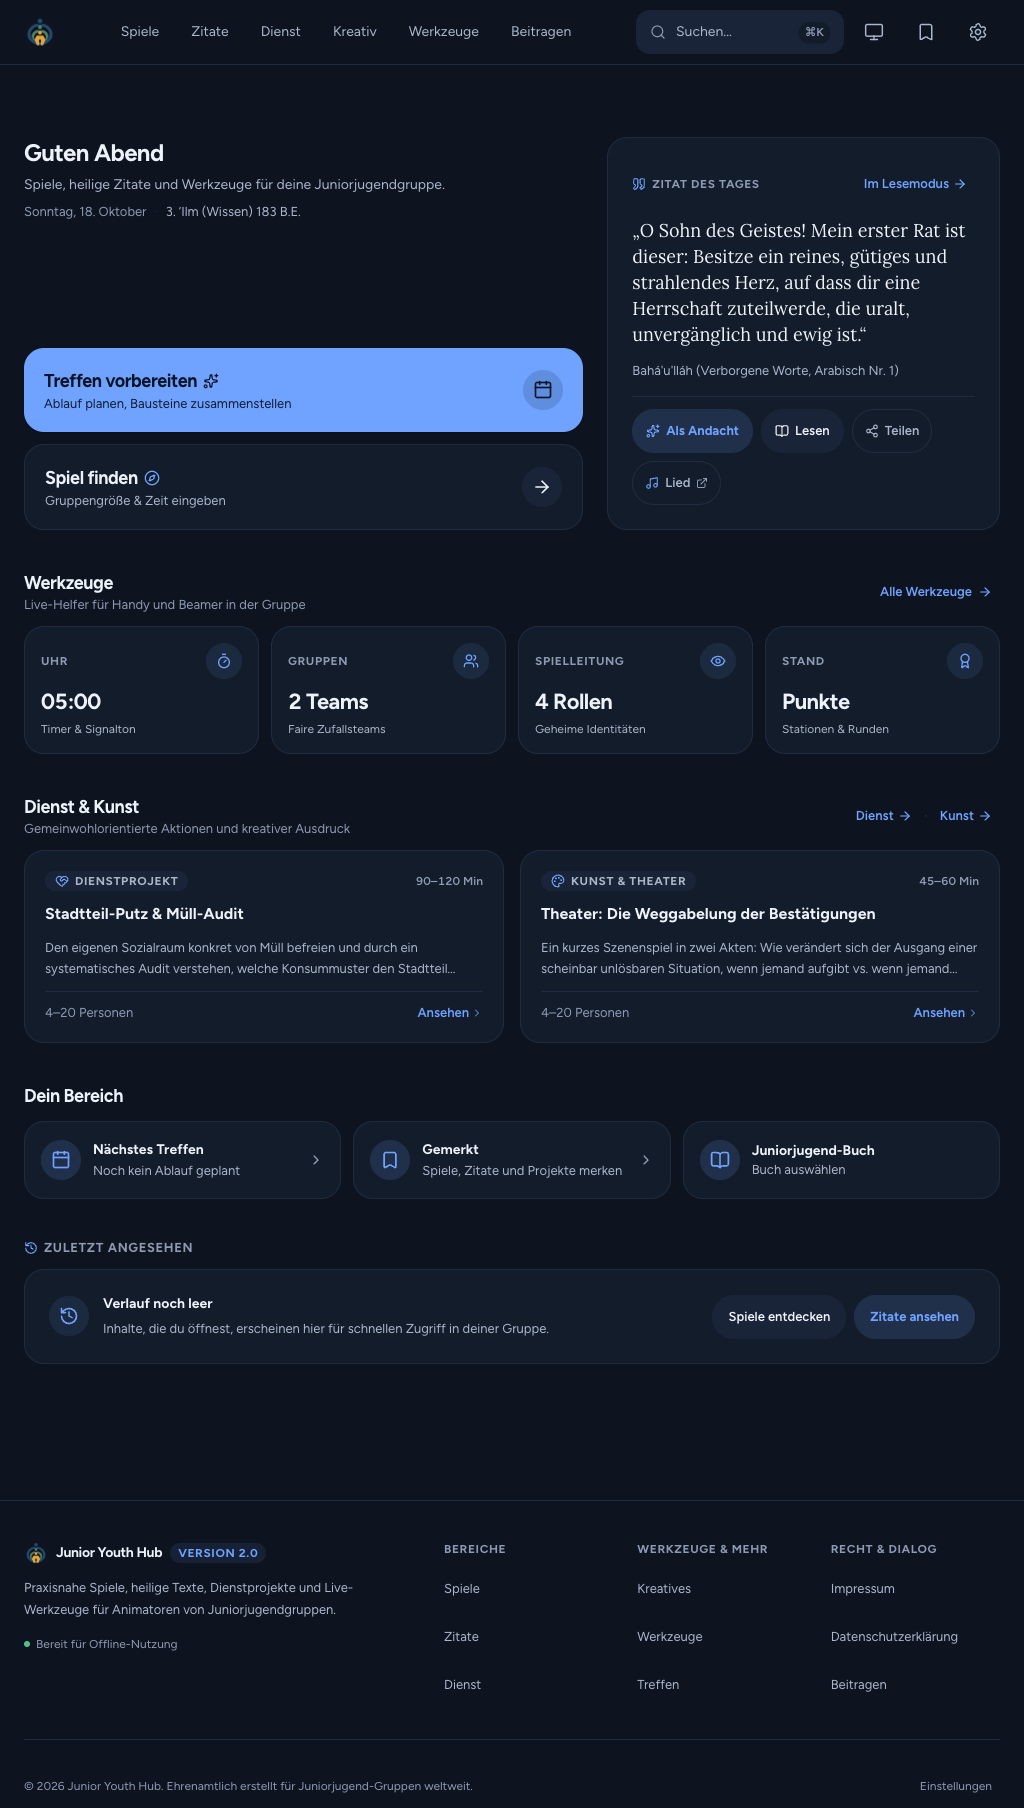
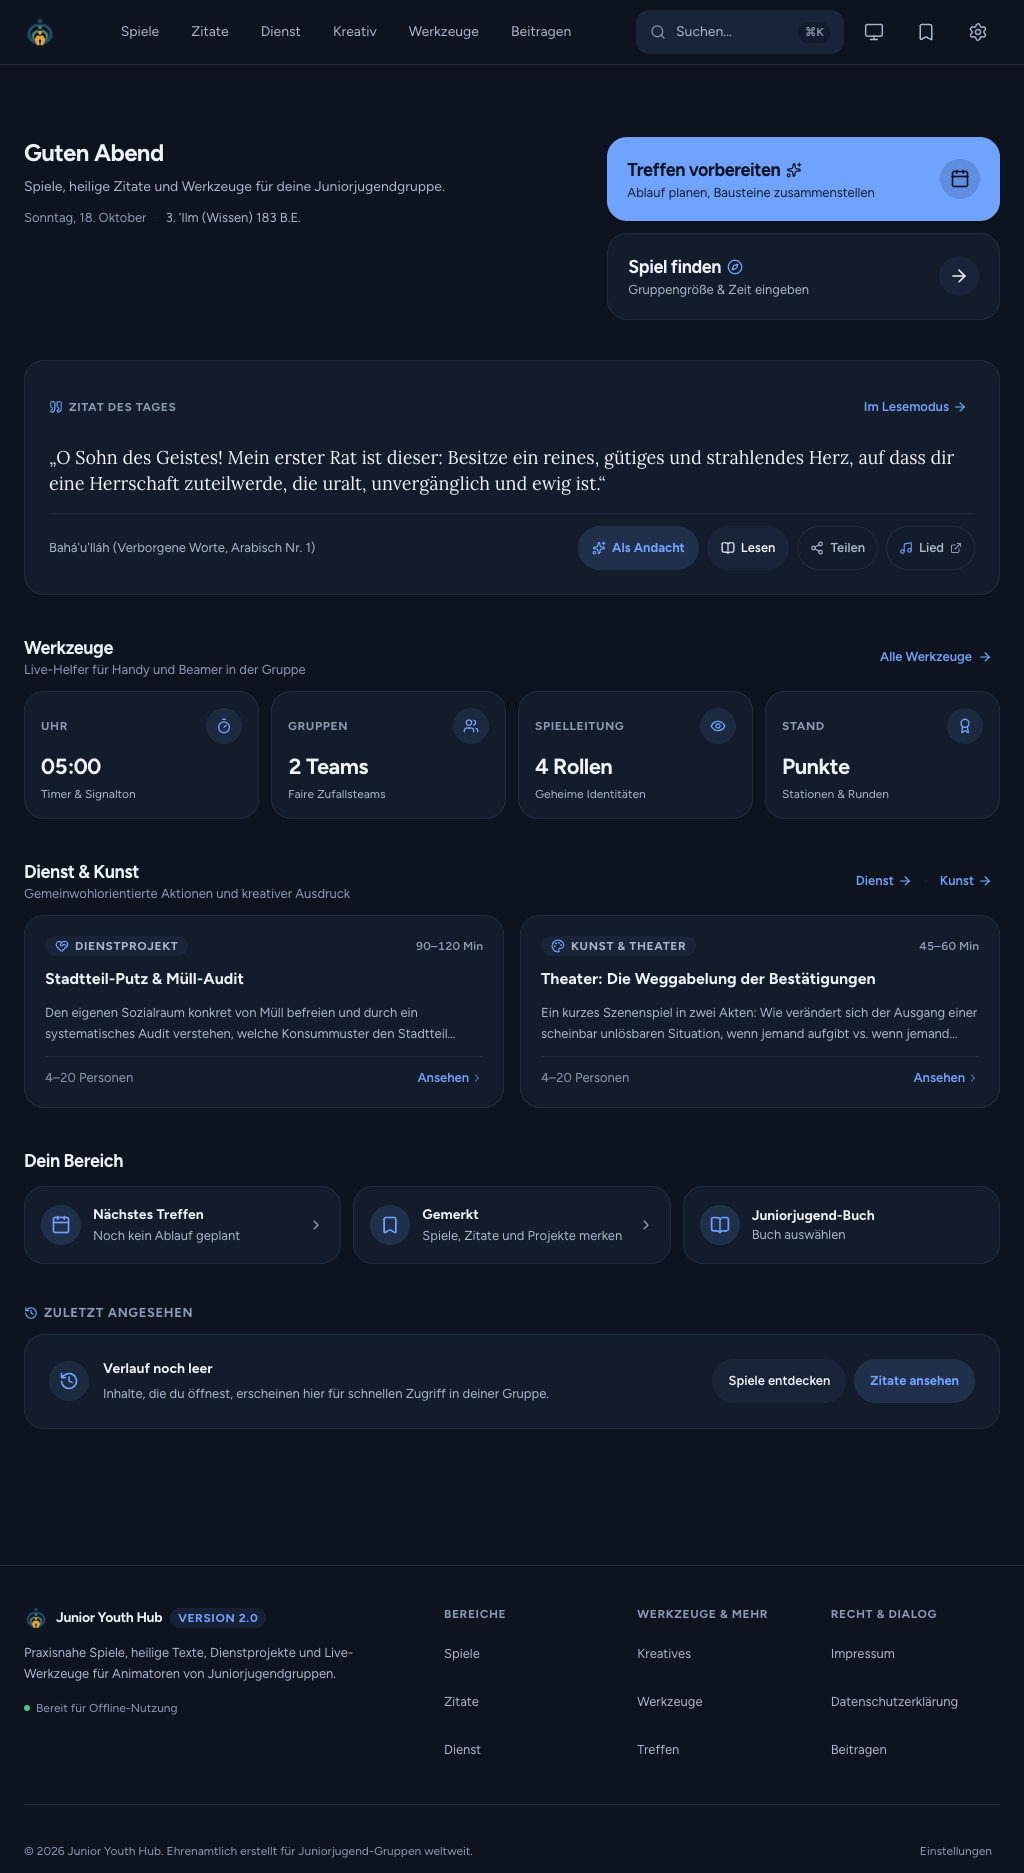
feat(home): give quote full horizontal width and refine hero grid layout

diff --git a/src/components/HomeView.tsx b/src/components/HomeView.tsx
@@ -163,7 +163,6 @@ export const HomeView: React.FC<HomeViewProps> = ({ language, favorites }) => {
   const quoteIndex = getDayOfYear() % QUOTES_DATA.length;
   const quote = QUOTES_DATA[quoteIndex];
   const quoteSong = quote ? getQuoteSong(quote.id, language) : undefined;
-  const [isQuoteExpanded, setIsQuoteExpanded] = useState(false);
 
   // Active plan stats
   const slotCount = activePlan?.slots?.length ?? 0;
@@ -257,11 +256,7 @@ export const HomeView: React.FC<HomeViewProps> = ({ language, favorites }) => {
     }
   };
 
-  const rawQuoteText = quote ? (language === 'de' ? quote.textDe : quote.textEn) : '';
-  const isLongQuote = rawQuoteText.length > 220;
-  const displayedQuote = isLongQuote && !isQuoteExpanded
-    ? `${rawQuoteText.slice(0, 210)}…`
-    : rawQuoteText;
+  const quoteText = quote ? (language === 'de' ? quote.textDe : quote.textEn) : '';
 
   return (
     <div className="max-w-[1200px] w-full mx-auto pb-10 space-y-8 sm:space-y-10">
@@ -302,45 +297,45 @@ export const HomeView: React.FC<HomeViewProps> = ({ language, favorites }) => {
         </aside>
       )}
 
-      {/* 2. Top-Bereich: Auf Desktop (lg: >= 1024px) 2 Spalten (Hero links, Zitat des Tages rechts) */}
-      <div className="grid grid-cols-1 lg:grid-cols-12 gap-5 sm:gap-6 items-stretch">
-        {/* Linke Spalte: Begrüßung + 2 Haupt-CTAs (lg:col-span-7) */}
-        <div className="lg:col-span-7 flex flex-col justify-between space-y-4">
-          <header className="space-y-1.5">
-            {isPlanToday && (
-              <span className="inline-flex items-center gap-1.5 px-3 py-0.5 rounded-full text-2xs font-extrabold uppercase tracking-wider bg-accent text-accent-contrast">
-                <Clock className="w-3 h-3" />
-                {L('Heute anstehend', 'Scheduled for today')}
-              </span>
-            )}
-            <h1 className="text-2xl sm:text-3xl font-extrabold tracking-tight text-text">
-              {slotCount > 0
-                ? `${fullGreeting} · ${L('Weiter mit deinem Treffen', 'Continue your gathering')}`
-                : fullGreeting}
-            </h1>
-            <p className="text-xs sm:text-sm text-text-secondary leading-relaxed">
-              {slotCount > 0
-                ? L(
-                    `Dein Entwurf für „${activePlan?.name}“ (${totalMinutes} Min., ${slotCount} Bausteine) wartet auf dich.`,
-                    `Your draft for "${activePlan?.name}" (${totalMinutes} min., ${slotCount} blocks) is ready.`
-                  )
-                : L(
-                    'Spiele, heilige Zitate und Werkzeuge für deine Juniorjugendgruppe.',
-                    'Games, sacred scripture, and tools for your junior youth group.'
-                  )}
-            </p>
-            {/* Dezente Datumszeile (Gregorianisch & Badí') */}
-            <p className="text-2xs sm:text-xs text-text-tertiary flex flex-wrap items-center gap-x-2 pt-0.5">
-              <span>{gregorianFormatted}</span>
-              <span className="text-border" aria-hidden="true">·</span>
-              <span className="text-text-secondary font-medium">
-                {language === 'de' ? badiDate.formattedDe : badiDate.formattedEn}
-              </span>
-            </p>
-          </header>
+      {/* 2. Hero-Bereich: Begrüßung links, die zwei gestapelten CTAs rechts */}
+      <div className="grid grid-cols-1 lg:grid-cols-12 gap-5 sm:gap-6 items-start">
+        {/* Linke Spalte: Begrüßung & Datum (lg:col-span-7) */}
+        <header className="lg:col-span-7 space-y-2">
+          {isPlanToday && (
+            <span className="inline-flex items-center gap-1.5 px-3 py-0.5 rounded-full text-2xs font-extrabold uppercase tracking-wider bg-accent text-accent-contrast">
+              <Clock className="w-3 h-3" />
+              {L('Heute anstehend', 'Scheduled for today')}
+            </span>
+          )}
+          <h1 className="text-2xl sm:text-3xl font-extrabold tracking-tight text-text">
+            {slotCount > 0
+              ? `${fullGreeting} · ${L('Weiter mit deinem Treffen', 'Continue your gathering')}`
+              : fullGreeting}
+          </h1>
+          <p className="text-xs sm:text-sm text-text-secondary leading-relaxed max-w-xl">
+            {slotCount > 0
+              ? L(
+                  `Dein Entwurf für „${activePlan?.name}“ (${totalMinutes} Min., ${slotCount} Bausteine) wartet auf dich.`,
+                  `Your draft for "${activePlan?.name}" (${totalMinutes} min., ${slotCount} blocks) is ready.`
+                )
+              : L(
+                  'Spiele, heilige Zitate und Werkzeuge für deine Juniorjugendgruppe.',
+                  'Games, sacred scripture, and tools for your junior youth group.'
+                )}
+          </p>
+          {/* Dezente Datumszeile (Gregorianisch & Badí') */}
+          <p className="text-2xs sm:text-xs text-text-tertiary flex flex-wrap items-center gap-x-2 pt-1">
+            <span>{gregorianFormatted}</span>
+            <span className="text-border" aria-hidden="true">·</span>
+            <span className="text-text-secondary font-medium">
+              {language === 'de' ? badiDate.formattedDe : badiDate.formattedEn}
+            </span>
+          </p>
+        </header>
 
-          {/* Die zwei großen CTA-Kacheln übereinander */}
-          <nav aria-label={L('Haupteinstiege', 'Main navigation')} className="flex flex-col gap-3 pt-1">
+        {/* Rechte Spalte: Die zwei großen CTA-Kacheln übereinander (lg:col-span-5) */}
+        <div className="lg:col-span-5 space-y-3">
+          <nav aria-label={L('Haupteinstiege', 'Main navigation')} className="flex flex-col gap-3">
             {/* Hauptaktion: Treffen vorbereiten */}
             <Link
               to="/treffen"
@@ -385,7 +380,7 @@ export const HomeView: React.FC<HomeViewProps> = ({ language, favorites }) => {
 
           {/* Spielfinder kompakt (nur bei Klick auf "Spiel finden") */}
           {showCompactFinder && (
-            <section aria-label={L('Kompakter Spielfinder', 'Compact game finder')} className="animate-in fade-in duration-200 pt-1">
+            <section aria-label={L('Kompakter Spielfinder', 'Compact game finder')} className="animate-in fade-in duration-200">
               <Panel className="space-y-4 border border-accent/30 bg-surface rounded-card p-4 sm:p-5 shadow-xs">
                 <div className="flex items-center justify-between">
                   <h2 className="text-sm font-bold text-text flex items-center gap-2">
@@ -441,94 +436,82 @@ export const HomeView: React.FC<HomeViewProps> = ({ language, favorites }) => {
             </section>
           )}
         </div>
-
-        {/* Rechte Spalte: Zitat des Tages (ruhig, dezent, ohne auffälligen Rahmen) */}
-        {quote && (
-          <div className="lg:col-span-5 flex flex-col justify-start">
-            <section
-              aria-label={L('Zitat des Tages', 'Quote of the day')}
-              className="p-5 sm:p-6 rounded-card bg-surface border border-line shadow-xs flex flex-col justify-between space-y-4"
-            >
-              <div className="space-y-3">
-                <div className="flex items-center justify-between">
-                  <span className="text-2xs font-bold uppercase tracking-wider text-text-tertiary flex items-center gap-1.5">
-                    <QuoteIcon className="w-3.5 h-3.5 text-accent" />
-                    <span>{L('Zitat des Tages', 'Quote of the day')}</span>
-                  </span>
-                  <Link
-                    to={`/quotes/${quote.id}`}
-                    className="inline-flex items-center gap-1 text-xs font-semibold text-accent hover:underline whitespace-nowrap min-h-[44px] px-2 py-1.5 rounded-control focus-visible:ring-2 focus-visible:ring-accent"
-                  >
-                    <span>{L('Im Lesemodus', 'Reading mode')}</span>
-                    <ArrowRight className="w-3.5 h-3.5 shrink-0" aria-hidden="true" />
-                  </Link>
-                </div>
-
-                <blockquote className="font-serif text-base sm:text-lg text-text leading-relaxed">
-                  {language === 'de' ? `„${stripQuotes(displayedQuote)}“` : `“${stripQuotes(displayedQuote)}”`}
-                </blockquote>
-
-                {isLongQuote && (
-                  <button
-                    type="button"
-                    onClick={() => setIsQuoteExpanded(!isQuoteExpanded)}
-                    className="text-xs font-semibold text-accent hover:underline cursor-pointer min-h-[44px] inline-flex items-center focus-visible:ring-2 focus-visible:ring-accent rounded-control"
-                  >
-                    {isQuoteExpanded ? L('Weniger anzeigen', 'Show less') : L('Weiterlesen', 'Read more')}
-                  </button>
-                )}
-
-                <p className="text-xs text-text-secondary pt-0.5">
-                  {quote.source[language]}
-                </p>
-              </div>
-
-              {/* Aktionen als gleichmäßige Button-Gruppe (Mobil 2x2, Desktop Flex-Reihe) */}
-              <div className="pt-3 border-t border-line grid grid-cols-2 sm:flex sm:flex-wrap sm:items-center gap-2">
-                <button
-                  type="button"
-                  onClick={handleUseQuoteAsDevotional}
-                  className="px-3.5 py-2.5 rounded-full bg-accent/15 hover:bg-accent/25 text-accent text-xs font-bold transition-colors cursor-pointer min-h-[44px] flex items-center justify-center gap-1.5 focus-visible:ring-2 focus-visible:ring-accent"
-                >
-                  <Sparkles className="w-3.5 h-3.5 shrink-0" />
-                  <span className="whitespace-nowrap">{t.quoteAsDevotional}</span>
-                </button>
-                <Link
-                  to={`/quotes/${quote.id}`}
-                  className="px-3.5 py-2.5 rounded-full bg-surface-2 hover:bg-surface-3 text-text text-xs font-semibold transition-colors cursor-pointer min-h-[44px] flex items-center justify-center gap-1.5 focus-visible:ring-2 focus-visible:ring-accent"
-                >
-                  <BookOpen className="w-3.5 h-3.5 shrink-0" />
-                  <span>{L('Lesen', 'Read')}</span>
-                </Link>
-                <button
-                  type="button"
-                  onClick={handleShareQuote}
-                  className="px-3 py-2.5 rounded-full border border-line hover:bg-surface-2 text-text-secondary hover:text-text text-xs font-semibold transition-colors min-h-[44px] flex items-center justify-center gap-1.5 cursor-pointer focus-visible:ring-2 focus-visible:ring-accent"
-                  title={t.quoteShare}
-                  aria-label={t.quoteShare}
-                >
-                  <Share2 className="w-3.5 h-3.5 text-text-secondary shrink-0" />
-                  <span>{t.quoteShare}</span>
-                </button>
-                {quoteSong && (
-                  <a
-                    href={quoteSong.url}
-                    target="_blank"
-                    rel="noopener noreferrer"
-                    className="px-3 py-2.5 rounded-full border border-line hover:bg-surface-2 text-text-secondary hover:text-text text-xs font-semibold transition-colors min-h-[44px] flex items-center justify-center gap-1.5 focus-visible:ring-2 focus-visible:ring-accent"
-                    title={language === 'de' ? `Lied „${quoteSong.title}“ auf bahaisongs.com anhören` : `Listen to song "${quoteSong.title}" on bahaisongs.com`}
-                    aria-label={t.quoteSongAriaLabel}
-                  >
-                    <Music className="w-3.5 h-3.5 text-accent shrink-0" />
-                    <span>{t.quoteSongLink}</span>
-                    <ExternalLink className="w-3 h-3 text-text-tertiary shrink-0" />
-                  </a>
-                )}
-              </div>
-            </section>
-          </div>
-        )}
       </div>
+
+      {/* 3. Zitat des Tages: Breiter horizontaler Raum, damit der Text in 1-2 Zeilen fließt */}
+      {quote && (
+        <section
+          aria-label={L('Zitat des Tages', 'Quote of the day')}
+          className="p-5 sm:p-6 rounded-card bg-surface border border-line shadow-xs space-y-4"
+        >
+          <div className="flex items-center justify-between">
+            <span className="text-2xs font-bold uppercase tracking-wider text-text-tertiary flex items-center gap-1.5">
+              <QuoteIcon className="w-3.5 h-3.5 text-accent" />
+              <span>{L('Zitat des Tages', 'Quote of the day')}</span>
+            </span>
+            <Link
+              to={`/quotes/${quote.id}`}
+              className="inline-flex items-center gap-1 text-xs font-semibold text-accent hover:underline whitespace-nowrap min-h-[44px] px-2 py-1.5 rounded-control focus-visible:ring-2 focus-visible:ring-accent"
+            >
+              <span>{L('Im Lesemodus', 'Reading mode')}</span>
+              <ArrowRight className="w-3.5 h-3.5 shrink-0" aria-hidden="true" />
+            </Link>
+          </div>
+
+          <blockquote className="font-serif text-base sm:text-lg text-text leading-relaxed">
+            {language === 'de' ? `„${stripQuotes(quoteText)}“` : `“${stripQuotes(quoteText)}”`}
+          </blockquote>
+
+          {/* Untere Zeile: Quelle links, Aktions-Buttons rechts */}
+          <div className="pt-3 border-t border-line flex flex-col sm:flex-row sm:items-center sm:justify-between gap-3">
+            <p className="text-xs text-text-secondary font-medium">
+              {quote.source[language]}
+            </p>
+
+            <div className="grid grid-cols-2 sm:flex sm:flex-wrap sm:items-center gap-2">
+              <button
+                type="button"
+                onClick={handleUseQuoteAsDevotional}
+                className="px-3.5 py-2.5 rounded-full bg-accent/15 hover:bg-accent/25 text-accent text-xs font-bold transition-colors cursor-pointer min-h-[44px] flex items-center justify-center gap-1.5 focus-visible:ring-2 focus-visible:ring-accent"
+              >
+                <Sparkles className="w-3.5 h-3.5 shrink-0" />
+                <span className="whitespace-nowrap">{t.quoteAsDevotional}</span>
+              </button>
+              <Link
+                to={`/quotes/${quote.id}`}
+                className="px-3.5 py-2.5 rounded-full bg-surface-2 hover:bg-surface-3 text-text text-xs font-semibold transition-colors cursor-pointer min-h-[44px] flex items-center justify-center gap-1.5 focus-visible:ring-2 focus-visible:ring-accent"
+              >
+                <BookOpen className="w-3.5 h-3.5 shrink-0" />
+                <span>{L('Lesen', 'Read')}</span>
+              </Link>
+              <button
+                type="button"
+                onClick={handleShareQuote}
+                className="px-3 py-2.5 rounded-full border border-line hover:bg-surface-2 text-text-secondary hover:text-text text-xs font-semibold transition-colors min-h-[44px] flex items-center justify-center gap-1.5 cursor-pointer focus-visible:ring-2 focus-visible:ring-accent"
+                title={t.quoteShare}
+                aria-label={t.quoteShare}
+              >
+                <Share2 className="w-3.5 h-3.5 text-text-secondary shrink-0" />
+                <span>{t.quoteShare}</span>
+              </button>
+              {quoteSong && (
+                <a
+                  href={quoteSong.url}
+                  target="_blank"
+                  rel="noopener noreferrer"
+                  className="px-3 py-2.5 rounded-full border border-line hover:bg-surface-2 text-text-secondary hover:text-text text-xs font-semibold transition-colors min-h-[44px] flex items-center justify-center gap-1.5 focus-visible:ring-2 focus-visible:ring-accent"
+                  title={language === 'de' ? `Lied „${quoteSong.title}“ auf bahaisongs.com anhören` : `Listen to song "${quoteSong.title}" on bahaisongs.com`}
+                  aria-label={t.quoteSongAriaLabel}
+                >
+                  <Music className="w-3.5 h-3.5 text-accent shrink-0" />
+                  <span>{t.quoteSongLink}</span>
+                  <ExternalLink className="w-3 h-3 text-text-tertiary shrink-0" />
+                </a>
+              )}
+            </div>
+          </div>
+        </section>
+      )}
 
       {/* 3. Werkzeug-Bereich: auf Desktop eine Reihe, mobil 2x2 mit klarem Icon-Fokus */}
       <section aria-label={t.tabTools} className="space-y-3">
